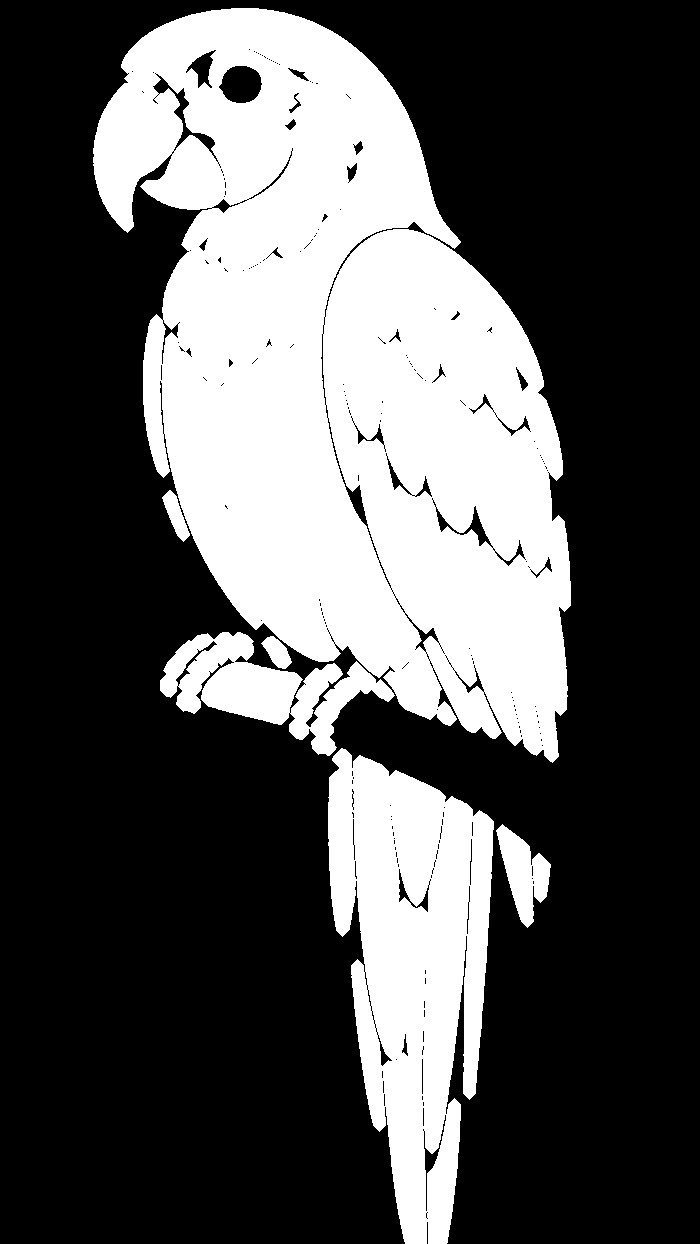
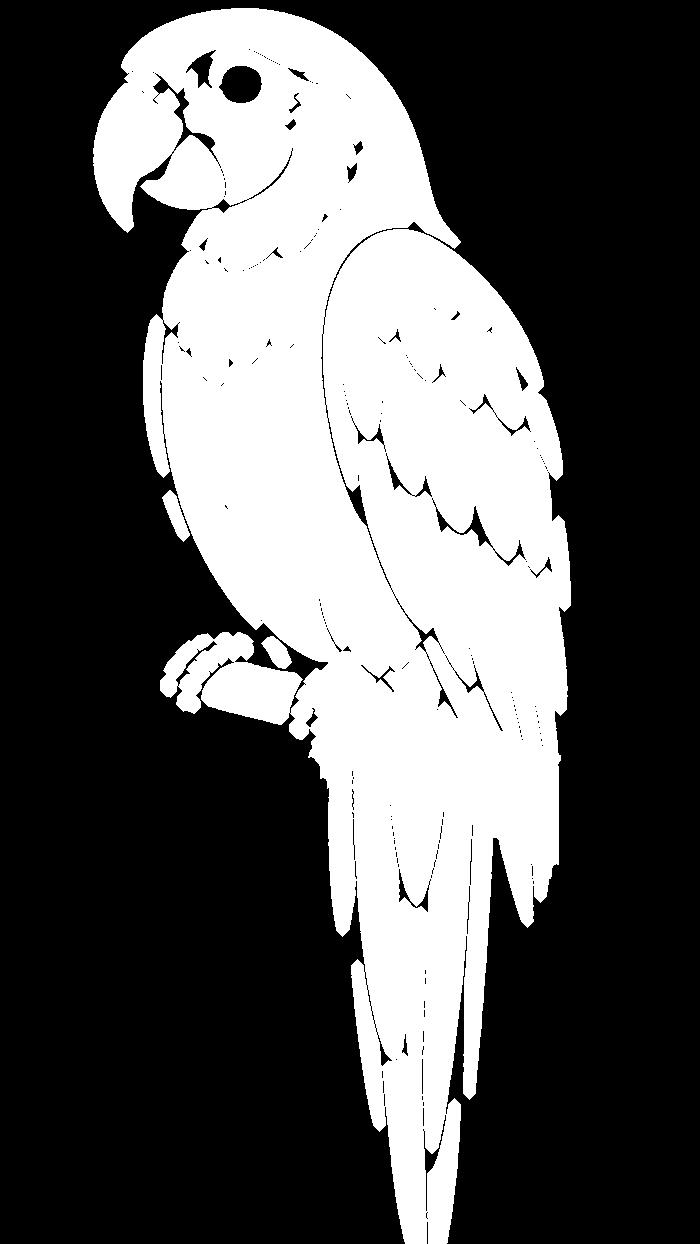
실험 2: 홈 앵무새에서 나뭇가지 제거 + 가지에 가려 비어 있던 꼬리를 이어 그림, 왼쪽 위 이름을 타이틀로
- 표지 그림의 나뭇가지 경로 삭제
- line-bird.png / m-bird.png: 가지가 지나던 띠를 메우고, 꼬리 직선 윗선을 지운 뒤 꼬리 깃털 선을 날개 끝까지 위로 이어 완전한 새 모양으로
- 모든 하위 화면의 왼쪽 위 '앵무새 도감' → 'FIND the PARROT!'

Claude-Session: https://claude.ai/code/session_013nsqfN2pmowfE43H4ZnkZX

Changed region(s): [[0.45, 0.5193, 0.81, 0.7026]]

diff --git a/lab2/index.html b/lab2/index.html
@@ -31,7 +31,9 @@ button{font:inherit; color:inherit; background:none; border:0; padding:0; cursor
 .top{position:fixed; top:0; left:0; right:0; z-index:40; display:flex; justify-content:space-between; align-items:center; gap:12px;
   padding:calc(env(safe-area-inset-top,0px) + 18px) var(--g) 0; pointer-events:none}
 .top > *{pointer-events:auto}
-.brand{font-weight:900; font-size:16px; letter-spacing:-.02em}
+.brand{font-weight:900; font-size:clamp(17px,1.5vw,21px); letter-spacing:-.045em; line-height:1}
+.brand .the{font-size:.62em; font-weight:500; color:var(--dim); margin:0 .22em; letter-spacing:-.01em}
+.brand:hover{color:var(--hl)}
 .pill{padding:7px 14px; border-radius:999px; background:var(--soft); font-size:13px}
 .pill:hover{background:var(--soft2)}
 body.on-cover .brand{visibility:hidden}
@@ -339,7 +341,7 @@ svg.bird .focus-pulse{animation:focusPulse 1.5s ease-in-out infinite}
 </head>
 <body class="on-cover" data-layout="A">
 <header class="top">
-  <button class="brand" id="home">앵무새 도감</button>
+  <button class="brand" id="home" aria-label="FIND the PARROT! 처음으로">FIND<span class="the">the</span>PARROT!</button>
   <div style="display:flex; gap:8px">
 
   </div>
@@ -667,8 +669,6 @@ const BRANCH_GRAIN = "M70 622 C120 636 160 648 200 660 M300 692 C350 706 390 720
 const PUPIL = `<g class="eyelive" data-r="5"><circle cx="241.5" cy="84" r="12.5" fill="#fff"/><circle cx="241.5" cy="84" r="7" fill="#000"/></g>`;
 function coverBirdSVG(){
   return `<svg viewBox="0 0 700 1244" aria-hidden="true">
-    <path d="${BRANCH_D}" fill="#141413" stroke="#fff" stroke-width="5" stroke-linejoin="round"/>
-    <path d="${BRANCH_GRAIN}" fill="none" stroke="#fff" stroke-width="2.5" opacity=".6" stroke-linecap="round"/>
     <g class="pb away">
       <rect class="hitbird" width="700" height="1244" fill="#000" mask="url(#bm-bird)"/>
       <image href="bird/line-bird.png" width="700" height="1244"/>
